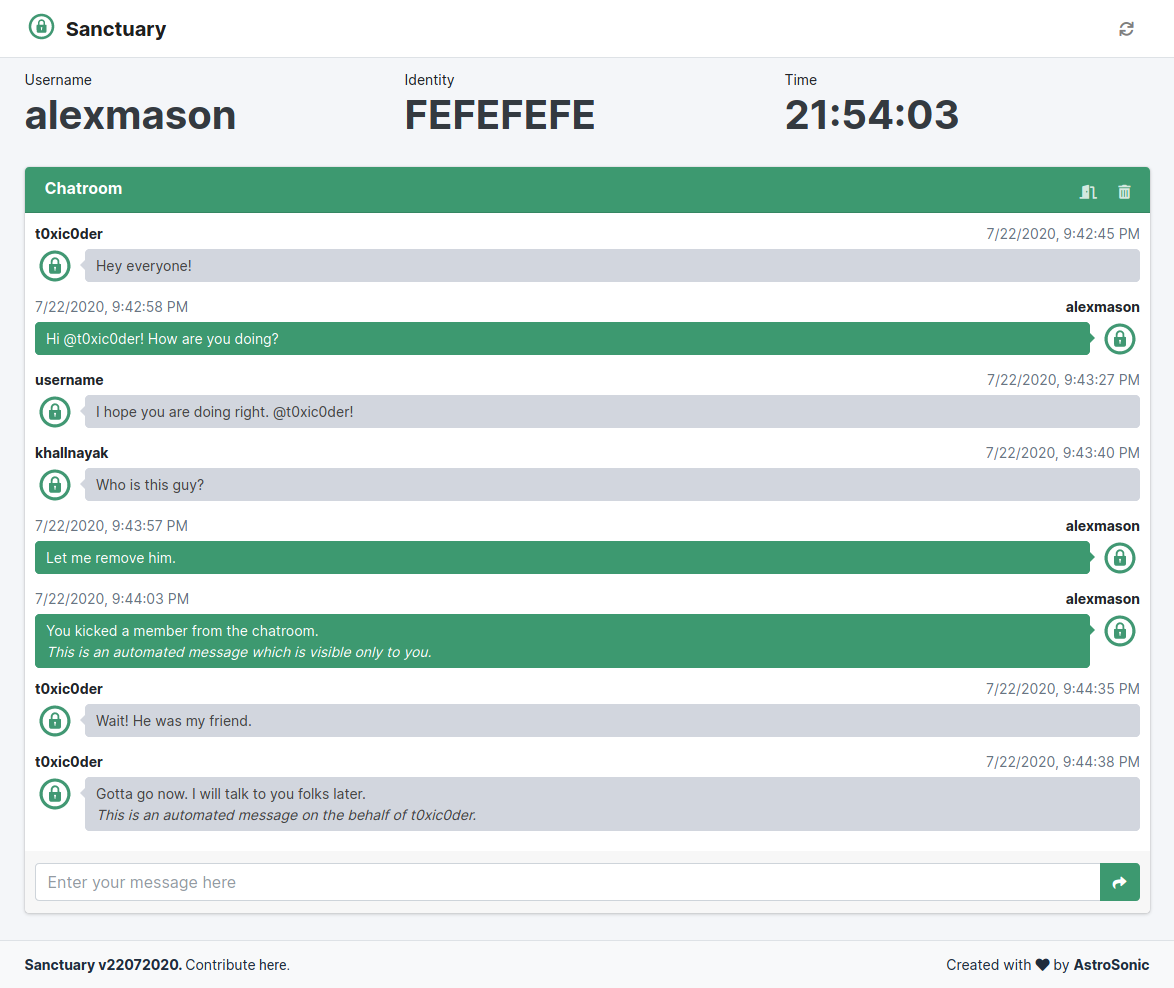
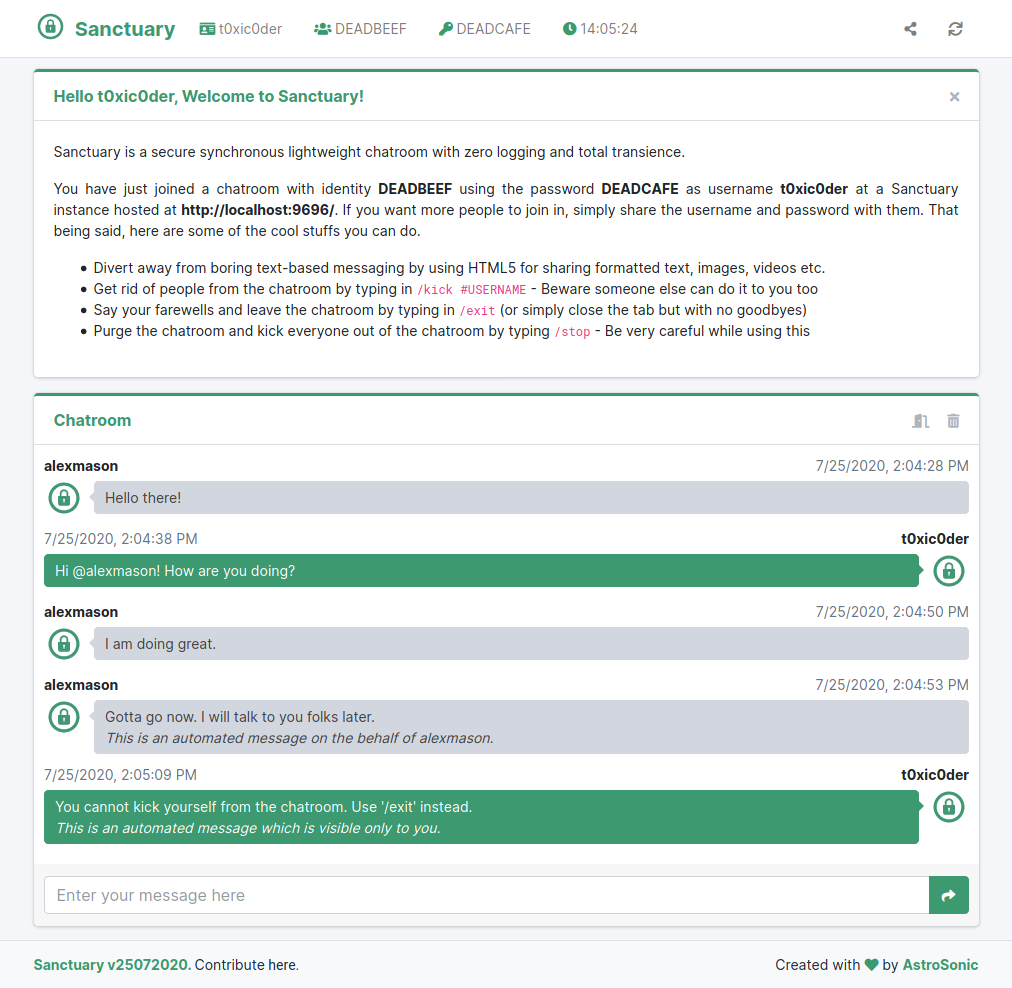
Reworked header display
Added a friendly welcome message

diff --git a/templates/chatroom.html b/templates/chatroom.html
@@ -43,9 +43,33 @@
                 <div class="container">
                     <a class="navbar-brand">
                         <img src="{{ url_for("static", filename="imgs/datalogo.svg") }}" class="brand-image img-circle" style="filter: invert(50%) sepia(47%) saturate(456%) hue-rotate(101deg) brightness(94%) contrast(92%);">
-                        <span class="brand-text headelem">Sanctuary</span>
+                        <span class="brand-text headelem text-olive">Sanctuary</span>
                     </a>
+                    <button class="navbar-toggler order-1" type="button" data-toggle="collapse" data-target="#headtext" aria-controls="headtext" aria-expanded="false" aria-label="Toggle navigation">
+                        <span class="navbar-toggler-icon"></span>
+                    </button>
+                    <div class="collapse navbar-collapse order-3" id="headtext">
+                        <ul class="navbar-nav">
+                            <li class="nav-item">
+                                <a class="nav-link"><i class="fas fa-id-card text-olive"></i>&nbsp;<span id="userhead" class="normelem">Sanctuary</span></a>
+                            </li>
+                            <li class="nav-item">
+                                <a class="nav-link"><i class="fas fa-users text-olive"></i>&nbsp;<span id="idenhead" class="normelem">DEADCAFE</span></a>
+                            </li>
+                            <li class="nav-item">
+                                <a class="nav-link"><i class="fas fa-key text-olive"></i>&nbsp;<span id="passhead" class="normelem">DEADBEEF</span></a>
+                            </li>
+                            <li class="nav-item">
+                                <a class="nav-link"><i class="fas fa-clock text-olive"></i>&nbsp;<span id="timehead" class="normelem">FADEDCAF</span></a>
+                            </li>
+                        </ul>
+                    </div>
                     <ul class="order-1 order-md-3 navbar-nav navbar-no-expand ml-auto">
+                        <li class="nav-item dropdown">
+                            <a class="nav-link" onclick="location.reload()">
+                                <i class="fas fa-share-alt"></i>
+                            </a>
+                        </li>
                         <li class="nav-item dropdown">
                             <a class="nav-link" onclick="location.reload()">
                                 <i class="fas fa-sync"></i>
@@ -59,48 +83,7 @@
                 <div class="content">
                     <div class="container">
                         <br/>
-                        <div class="row mb-2" id="headtext">
-                            <div class="col-sm-3">
-                                <p class="normelem" style="margin-bottom: 0px;">Username</p>
-                                <h1 class="m-0 text-dark headelem" id="userhead">Sanctuary</h1>
-                            </div>
-                            <div class="col-sm-3">
-                                <p class="normelem" style="margin-bottom: 0px;">Identity</p>
-                                <h1 class="m-0 text-dark headelem" id="idenhead">DEADCAFE</h1>
-                            </div>
-                            <div class="col-sm-3">
-                                <p class="normelem" style="margin-bottom: 0px;">Password</p>
-                                <h1 class="m-0 text-dark headelem" id="passhead">DEAFBEEF</h1>
-                            </div>
-                            <div class="col-sm-3">
-                                <p class="normelem" style="margin-bottom: 0px;">Time</p>
-                                <h1 class="m-0 text-dark headelem" id="timehead">DEADCAFE</h1>
-                            </div>
-                        </div>
-                        <br/>
-                        <div class="card card-olive direct-chat direct-chat-olive" id="chatboxe">
-                            <div class="card-header">
-                                <h3 class="card-title headelem">Chatroom</h3>
-                                <div class="card-tools">
-                                    <button type="button" class="btn btn-tool" data-toggle="tooltip"><i class="fas fa-door-open"></i></button>
-                                    <button type="button" class="btn btn-tool" data-toggle="tooltip"><i class="fas fa-trash-alt"></i></button>
-                                </div>
-                            </div>
-                            <div class="card-body" id="mesgarea">
-                                <div class="direct-chat-messages" style="height: 100%;">
-                                </div>
-                            </div>
-                            <div class="card-footer" style="padding-left: 10px; padding-right: 10px;">
-                                <form onsubmit="FetchMessageFromTextbox()" action="javascript:;">
-                                    <div class="input-group">
-                                        <input type="text" name="message" placeholder="Enter your message here" id="textmesg" class="form-control normelem">
-                                        <span class="input-group-append">
-                                            <button type="submit" class="btn bg-olive headelem"><i class="fas fa-share"></i></button>
-                                        </span>
-                                    </div>
-                                </form>
-                            </div>
-                        </div>
+                        <div id="statwarn"></div>
                     </div>
                 </div>
             </div>
@@ -108,9 +91,9 @@
             <footer class="main-footer bg-light">
                 <div class="container">
                     <div class="float-right d-none d-sm-inline normelem">
-                        Created with <i class="fas fa-heart"></i> by <span class="headelem" onclick="window.location.href = 'https://github.com/astrosonic/'">AstroSonic</span>
+                        Created with <i class="fas fa-heart text-olive"></i> by <span class="headelem text-olive" onclick="window.location.href = 'https://github.com/astrosonic/'">AstroSonic</span>
                     </div>
-                    <span class="headelem">Sanctuary v22072020. </span><span onclick="window.location.href = 'https://github.com/astrosonic/sanctuary'" class="normelem">Contribute</span> here.
+                    <span class="headelem text-olive">Sanctuary v25072020. </span><span onclick="window.location.href = 'https://github.com/astrosonic/sanctuary'" class="normelem">Contribute</span> here.
                 </div>
             </footer>
         </div>
@@ -217,7 +200,7 @@
             {
                 let curtdate = new Date();
                 let hour = curtdate.getHours(); let mint = curtdate.getMinutes(); let secs = curtdate.getSeconds();
-                mint = checkTime(mint); secs = checkTime(secs);
+                hour = checkTime(hour); mint = checkTime(mint); secs = checkTime(secs);
                 document.getElementById("timehead").innerHTML = hour + ":" + mint + ":" + secs;
                 let time = setTimeout(startTime, 500);
             }
@@ -256,6 +239,26 @@
                             sessionStorage.setItem("username", username); sessionStorage.setItem("roomiden", roomiden); sessionStorage.setItem("password", password);
                             $('#givename').modal('hide'); document.getElementById("username").value = ""; document.getElementById("roomiden").value = ""; document.getElementById("password").value = "";
                             document.getElementById("userhead").innerText = username; document.getElementById("idenhead").innerText = roomiden; document.getElementById("passhead").innerText = password;
+                            let modifdom = "<div class='card card-outline card-olive'>" + "<div class='card-header'>" + "<p class='card-title headelem text-olive'>Hello " + sessionStorage.getItem("username") + ", Welcome to Sanctuary!</p>" +
+                                "<div class='card-tools'>" + "<button type='button' class='btn btn-tool' data-card-widget='remove'><i class='fas fa-times'></i></button>" +
+                                "</div>" + "</div>" + "<div class='card-body'>" +
+                                "<p class='normelem text-justify'>Sanctuary is a secure synchronous lightweight chatroom with zero logging and total transience.</p>" +
+                                "<p class='normelem text-justify'>You have just joined a chatroom with identity <span class='headelem'>" + sessionStorage.getItem("roomiden") + "</span> using the password <span class='headelem'>" + sessionStorage.getItem("password") + "</span> as username <span class='headelem'>" + sessionStorage.getItem("username") + "</span> at a Sanctuary instance hosted at <span class='headelem'>http://" + document.domain + ":{{ chatport }}/</span>. If you want more people to join in, simply share the username and password with them. That being said, here are some of the cool stuffs you can do.</p>" +
+                                "<ul class='normelem'>" +
+                                "<li>Divert away from boring text-based messaging by using HTML5 for sharing formatted text, images, videos etc.</li>" + "<li>Get rid of people from the chatroom by typing in <code>/kick #USERNAME</code> - Beware someone else can do it to you too</li>" +
+                                "<li>Say your farewells and leave the chatroom by typing in <code>/exit</code> (or simply close the tab but with no goodbyes)</li>" + "<li>Purge the chatroom and kick everyone out of the chatroom by typing <code>/stop</code> - Be very careful while using this</li>" +
+                                "</ul>" + "</div>" + "</div>";
+                            let chatboxe = "<div class='card card-outline card-olive direct-chat direct-chat-olive' id='chatboxe'>" +
+                                "<div class='card-header'>" + "<p class='card-title headelem text-olive'>Chatroom</p>" + "<div class='card-tools'>" +
+                                "<button type='button' class='btn btn-tool' data-toggle='tooltip'><i class='fas fa-door-open'></i></button>" +
+                                "<button type='button' class='btn btn-tool' data-toggle='tooltip'><i class='fas fa-trash-alt'></i></button>" +
+                                "</div>" + "</div>" + "<div class='card-body' id='mesgarea'>" + "<div class='direct-chat-messages' style='height: 100%;'>" +
+                                "</div>" + "</div>" + "<div class='card-footer' style='padding-left: 10px; padding-right: 10px;'>" +
+                                "<form onsubmit='FetchMessageFromTextbox()' action='javascript:;'>" + "<div class='input-group'>" +
+                                "<input type='text' name='message' placeholder='Enter your message here' id='textmesg' class='form-control normelem'>" +
+                                "<span class='input-group-append'>" + "<button type='submit' class='btn bg-olive headelem'><i class='fas fa-share'></i></button>" +
+                                "</span>" + "</div>" + "</form>" + "</div>" + "</div>"
+                            $("#statwarn").append(modifdom); $("#statwarn").append(chatboxe);
                         }
                     }
                 }
@@ -276,7 +279,7 @@
                             let encrmesg = CryptoJS.AES.encrypt(textmesg, sessionStorage.getItem("password")).toString();
                             webesock.send(JSON.stringify({username:sessionStorage.getItem("username"), roomiden:sessionStorage.getItem("roomiden"), textmesg:encrmesg}));
                             sessionStorage.removeItem("username"); sessionStorage.removeItem("password"); sessionStorage.removeItem("roomiden");
-                            document.getElementById("chatboxe").remove(); document.getElementById("headtext").remove(); $("#userstop").modal("show");
+                            document.getElementById("statwarn").remove(); document.getElementById("headtext").remove(); $("#userstop").modal("show");
                         }
                         else if (textmesg == "/exit")
                         {
@@ -284,7 +287,7 @@
                             let encrmesg = CryptoJS.AES.encrypt(textmesg, sessionStorage.getItem("password")).toString();
                             webesock.send(JSON.stringify({username:sessionStorage.getItem("username"), roomiden:sessionStorage.getItem("roomiden"), textmesg:encrmesg}));
                             sessionStorage.removeItem("username"); sessionStorage.removeItem("password"); sessionStorage.removeItem("roomiden");
-                            document.getElementById("chatboxe").remove(); document.getElementById("headtext").remove(); $("#userexit").modal("show");
+                            document.getElementById("statwarn").remove(); document.getElementById("headtext").remove(); $("#userexit").modal("show");
                         }
                         else if (textmesg.includes("/kick"))
                         {
@@ -292,8 +295,7 @@
                             {
                                 let curtdate = new Date();
                                 let modifdom = "<div class='direct-chat-msg right'>" + "<div class='direct-chat-infos clearfix'>" +
-                                    "<span class='direct-chat-name float-right headelem'>" + sessionStorage.getItem("username") + "</span>" +
-                                    "<span class='direct-chat-timestamp float-left normelem'>" + curtdate.toLocaleString() + "</span>" + "</div>" +
+                                    "<span class='direct-chat-name float-right headelem'>" + sessionStorage.getItem("username") + "</span>" + "<span class='direct-chat-timestamp float-left normelem'>" + curtdate.toLocaleString() + "</span>" + "</div>" +
                                     "<img class='direct-chat-img' src='{{ url_for("static", filename="imgs/datalogo.svg") }}' style='filter: invert(50%) sepia(47%) saturate(456%) hue-rotate(101deg) brightness(94%) contrast(92%);' alt='Message User Image'>" +
                                     "<div class='direct-chat-text normelem text-justify'>" + "You cannot kick yourself from the chatroom. Use '/exit' instead.<br/><i>This is an automated message which is visible only to you.</i>" + "</div>" + "</div>";
                                 $("div.direct-chat-messages").append(modifdom); document.getElementById("textmesg").value = "";
@@ -302,8 +304,7 @@
                             {
                                 let curtdate = new Date();
                                 let modifdom = "<div class='direct-chat-msg right'>" + "<div class='direct-chat-infos clearfix'>" +
-                                    "<span class='direct-chat-name float-right headelem'>" + sessionStorage.getItem("username") + "</span>" +
-                                    "<span class='direct-chat-timestamp float-left normelem'>" + curtdate.toLocaleString() + "</span>" + "</div>" +
+                                    "<span class='direct-chat-name float-right headelem'>" + sessionStorage.getItem("username") + "</span>" + "<span class='direct-chat-timestamp float-left normelem'>" + curtdate.toLocaleString() + "</span>" + "</div>" +
                                     "<img class='direct-chat-img' src='{{ url_for("static", filename="imgs/datalogo.svg") }}' style='filter: invert(50%) sepia(47%) saturate(456%) hue-rotate(101deg) brightness(94%) contrast(92%);' alt='Message User Image'>" +
                                     "<div class='direct-chat-text normelem text-justify'>" + "You kicked a member from the chatroom.<br/><i>This is an automated message which is visible only to you.</i>" + "</div>" + "</div>";
                                 $("div.direct-chat-messages").append(modifdom); document.getElementById("textmesg").value = "";
@@ -315,8 +316,7 @@
                         {
                             let curtdate = new Date();
                             let modifdom = "<div class='direct-chat-msg right'>" + "<div class='direct-chat-infos clearfix'>" +
-                                "<span class='direct-chat-name float-right headelem'>" + sessionStorage.getItem("username") + "</span>" +
-                                "<span class='direct-chat-timestamp float-left normelem'>" + curtdate.toLocaleString() + "</span>" + "</div>" +
+                                "<span class='direct-chat-name float-right headelem'>" + sessionStorage.getItem("username") + "</span>" + "<span class='direct-chat-timestamp float-left normelem'>" + curtdate.toLocaleString() + "</span>" + "</div>" +
                                 "<img class='direct-chat-img' src='{{ url_for("static", filename="imgs/datalogo.svg") }}' style='filter: invert(50%) sepia(47%) saturate(456%) hue-rotate(101deg) brightness(94%) contrast(92%);' alt='Message User Image'>" +
                                 "<div class='direct-chat-text normelem text-justify'>" + textmesg + "</div>" + "</div>";
                             $("div.direct-chat-messages").append(modifdom); document.getElementById("textmesg").value = "";
@@ -341,14 +341,13 @@
                                 if (textmesg == "/kick " + sessionStorage.getItem("username"))
                                 {
                                     sessionStorage.removeItem("username"); sessionStorage.removeItem("password"); sessionStorage.removeItem("roomiden");
-                                    document.getElementById("chatboxe").remove(); document.getElementById("headtext").remove(); $("#userkick").modal("show");
+                                    document.getElementById("statwarn").remove(); document.getElementById("headtext").remove(); $("#userkick").modal("show");
                                 }
                                 else if (!(textmesg.includes(sessionStorage.getItem("username"))))
                                 {
                                     let curtdate = new Date();
                                     let modifdom = "<div class='direct-chat-msg'>" + "<div class='direct-chat-infos clearfix'>" +
-                                        "<span class='direct-chat-name float-left headelem'>" + data.username + "</span>" +
-                                        "<span class='direct-chat-timestamp float-right normelem'>" + curtdate.toLocaleString() + "</span>" + "</div>" +
+                                        "<span class='direct-chat-name float-left headelem'>" + data.username + "</span>" + "<span class='direct-chat-timestamp float-right normelem'>" + curtdate.toLocaleString() + "</span>" + "</div>" +
                                         "<img class='direct-chat-img' src='{{ url_for("static", filename="imgs/datalogo.svg") }}' style='filter: invert(50%) sepia(47%) saturate(456%) hue-rotate(101deg) brightness(94%) contrast(92%);' alt='Message User Image'>" +
                                         "<div class='direct-chat-text normelem text-justify'>" + data.username + " executed '" + textmesg + "' and removed a chatroom member.<br/><i>This is an automated message on the behalf of " + data.username + "</i>" +
                                         "</div>" + "</div>";
@@ -358,14 +357,13 @@
                             else if (textmesg == "/stop")
                             {
                                 sessionStorage.removeItem("username"); sessionStorage.removeItem("password"); sessionStorage.removeItem("roomiden");
-                                document.getElementById("chatboxe").remove(); document.getElementById("headtext").remove(); $("#userstop").modal("show");
+                                document.getElementById("statwarn").remove(); document.getElementById("headtext").remove(); $("#userstop").modal("show");
                             }
                             else
                             {
                                 let curtdate = new Date();
                                 let modifdom = "<div class='direct-chat-msg'>" + "<div class='direct-chat-infos clearfix'>" +
-                                    "<span class='direct-chat-name float-left headelem'>" + data.username + "</span>" +
-                                    "<span class='direct-chat-timestamp float-right normelem'>" + curtdate.toLocaleString() + "</span>" + "</div>" +
+                                    "<span class='direct-chat-name float-left headelem'>" + data.username + "</span>" + "<span class='direct-chat-timestamp float-right normelem'>" + curtdate.toLocaleString() + "</span>" + "</div>" +
                                     "<img class='direct-chat-img' src='{{ url_for("static", filename="imgs/datalogo.svg") }}' style='filter: invert(50%) sepia(47%) saturate(456%) hue-rotate(101deg) brightness(94%) contrast(92%);' alt='Message User Image'>" +
                                     "<div class='direct-chat-text normelem text-justify'>" + textmesg + "</div>" + "</div>";
                                 $("div.direct-chat-messages").append(modifdom);
